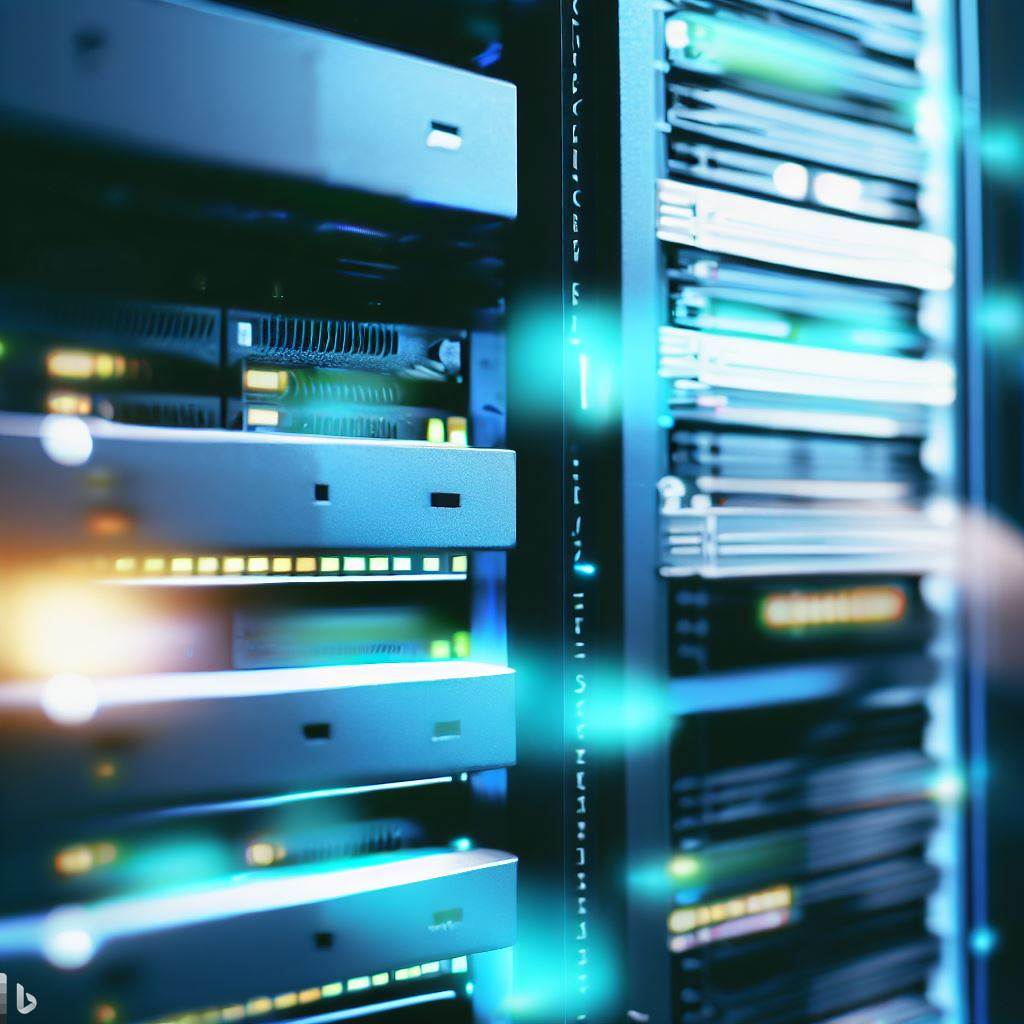
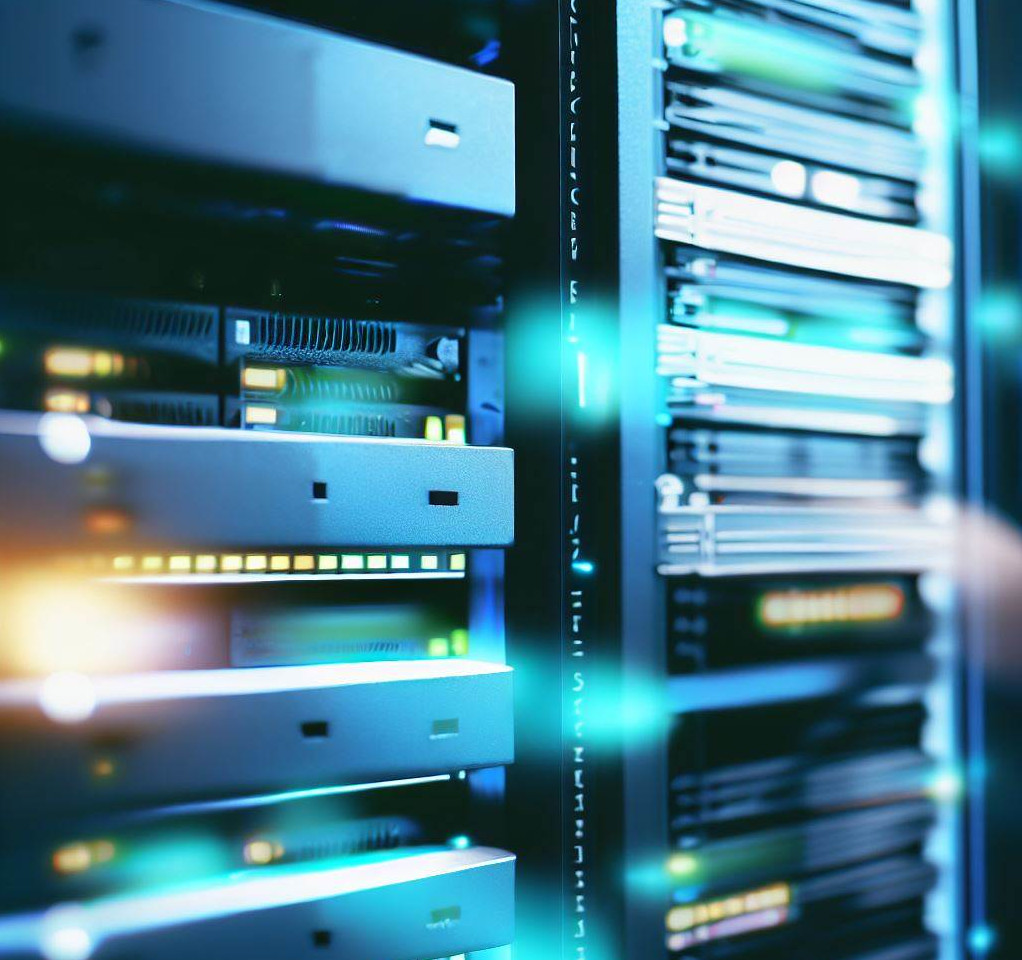
update images

diff --git a/templates/index.html b/templates/index.html
@@ -17,7 +17,7 @@
         <script src="https://embed.small.chat/T025D8U6F2AC041U4497RV.js" async></script>
         <!-- Header -->
         <header>  
-            <img src="../static/pics/header-bg-1.jpeg" alt="stylized pic of computer screens" class="background-image">
+            <img src="../static/pics/index-header-bg.jpeg" alt="stylized pic of computer screens" class="background-image">
             <div class="header-container">
                 {% include 'header.html' %}
             </div>

diff --git a/templates/header.html b/templates/header.html
@@ -1,7 +1,7 @@
         <!-- Title / Nav Bar -->
         <header-bar>
             <div class="left-section">
-                <a href="{{ url_for('home') }}"><img src="../static/pics/headericon.png" alt="AlderAutomation Logo" width="90px"></a>
+                <a href="{{ url_for('home') }}"><img src="../static/pics/header-bar-logo.png" alt="AlderAutomation Logo" width="90px"></a>
                 <h1>ALDERAUTOMATION</h1>
             </div>
             <div class="right-section">
